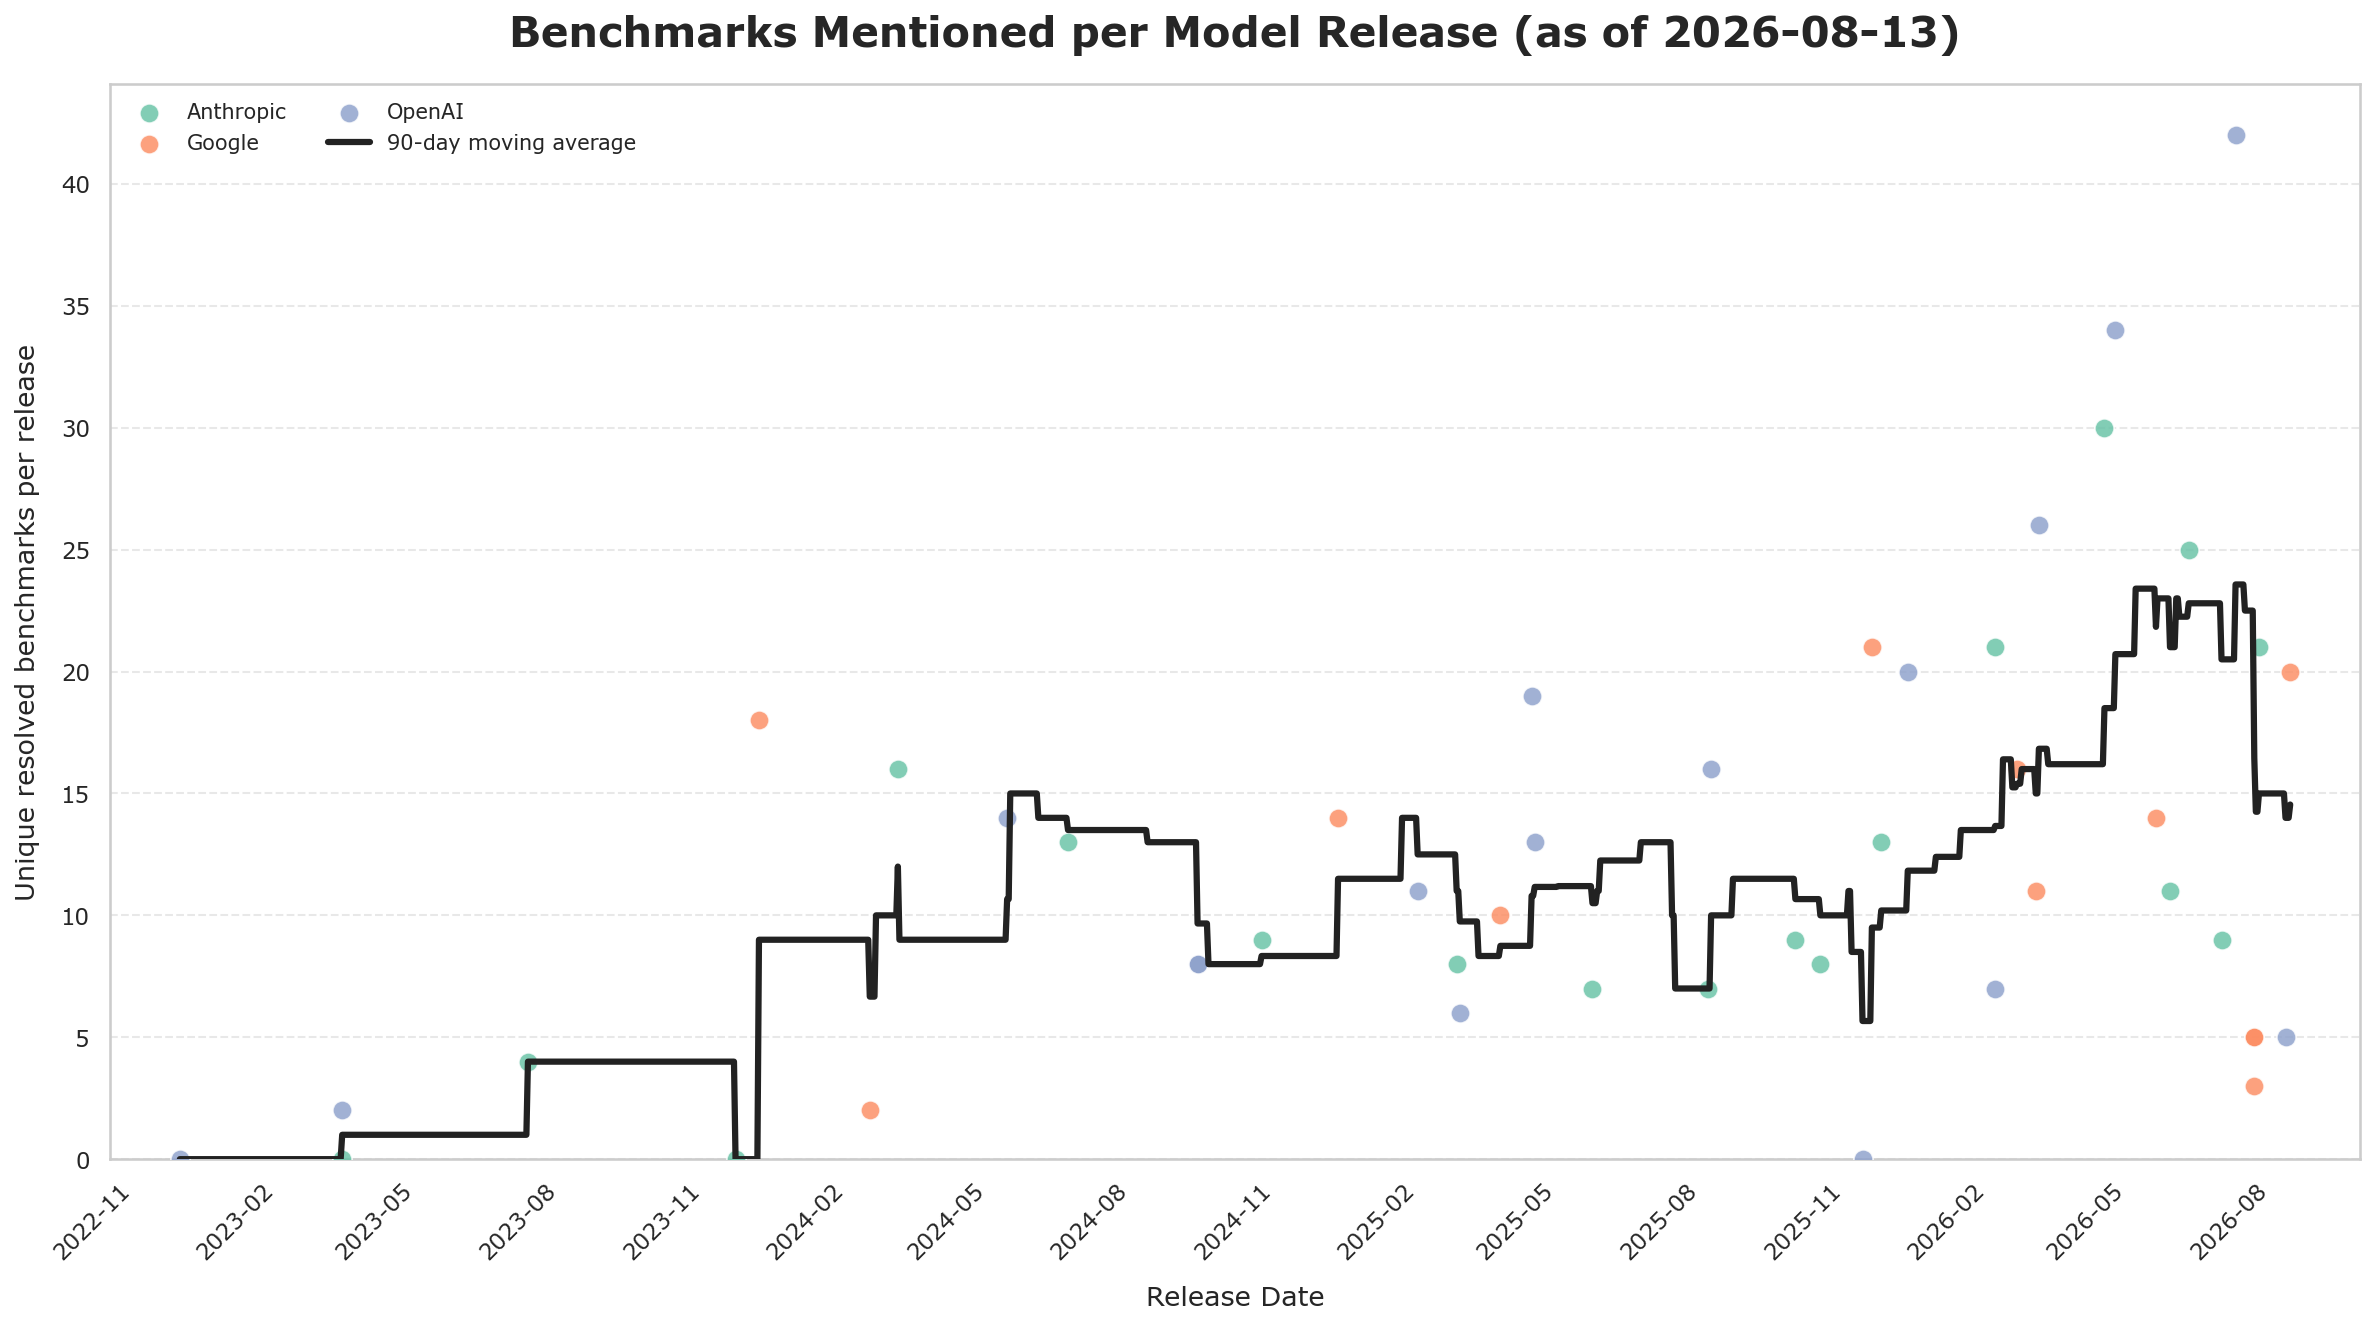
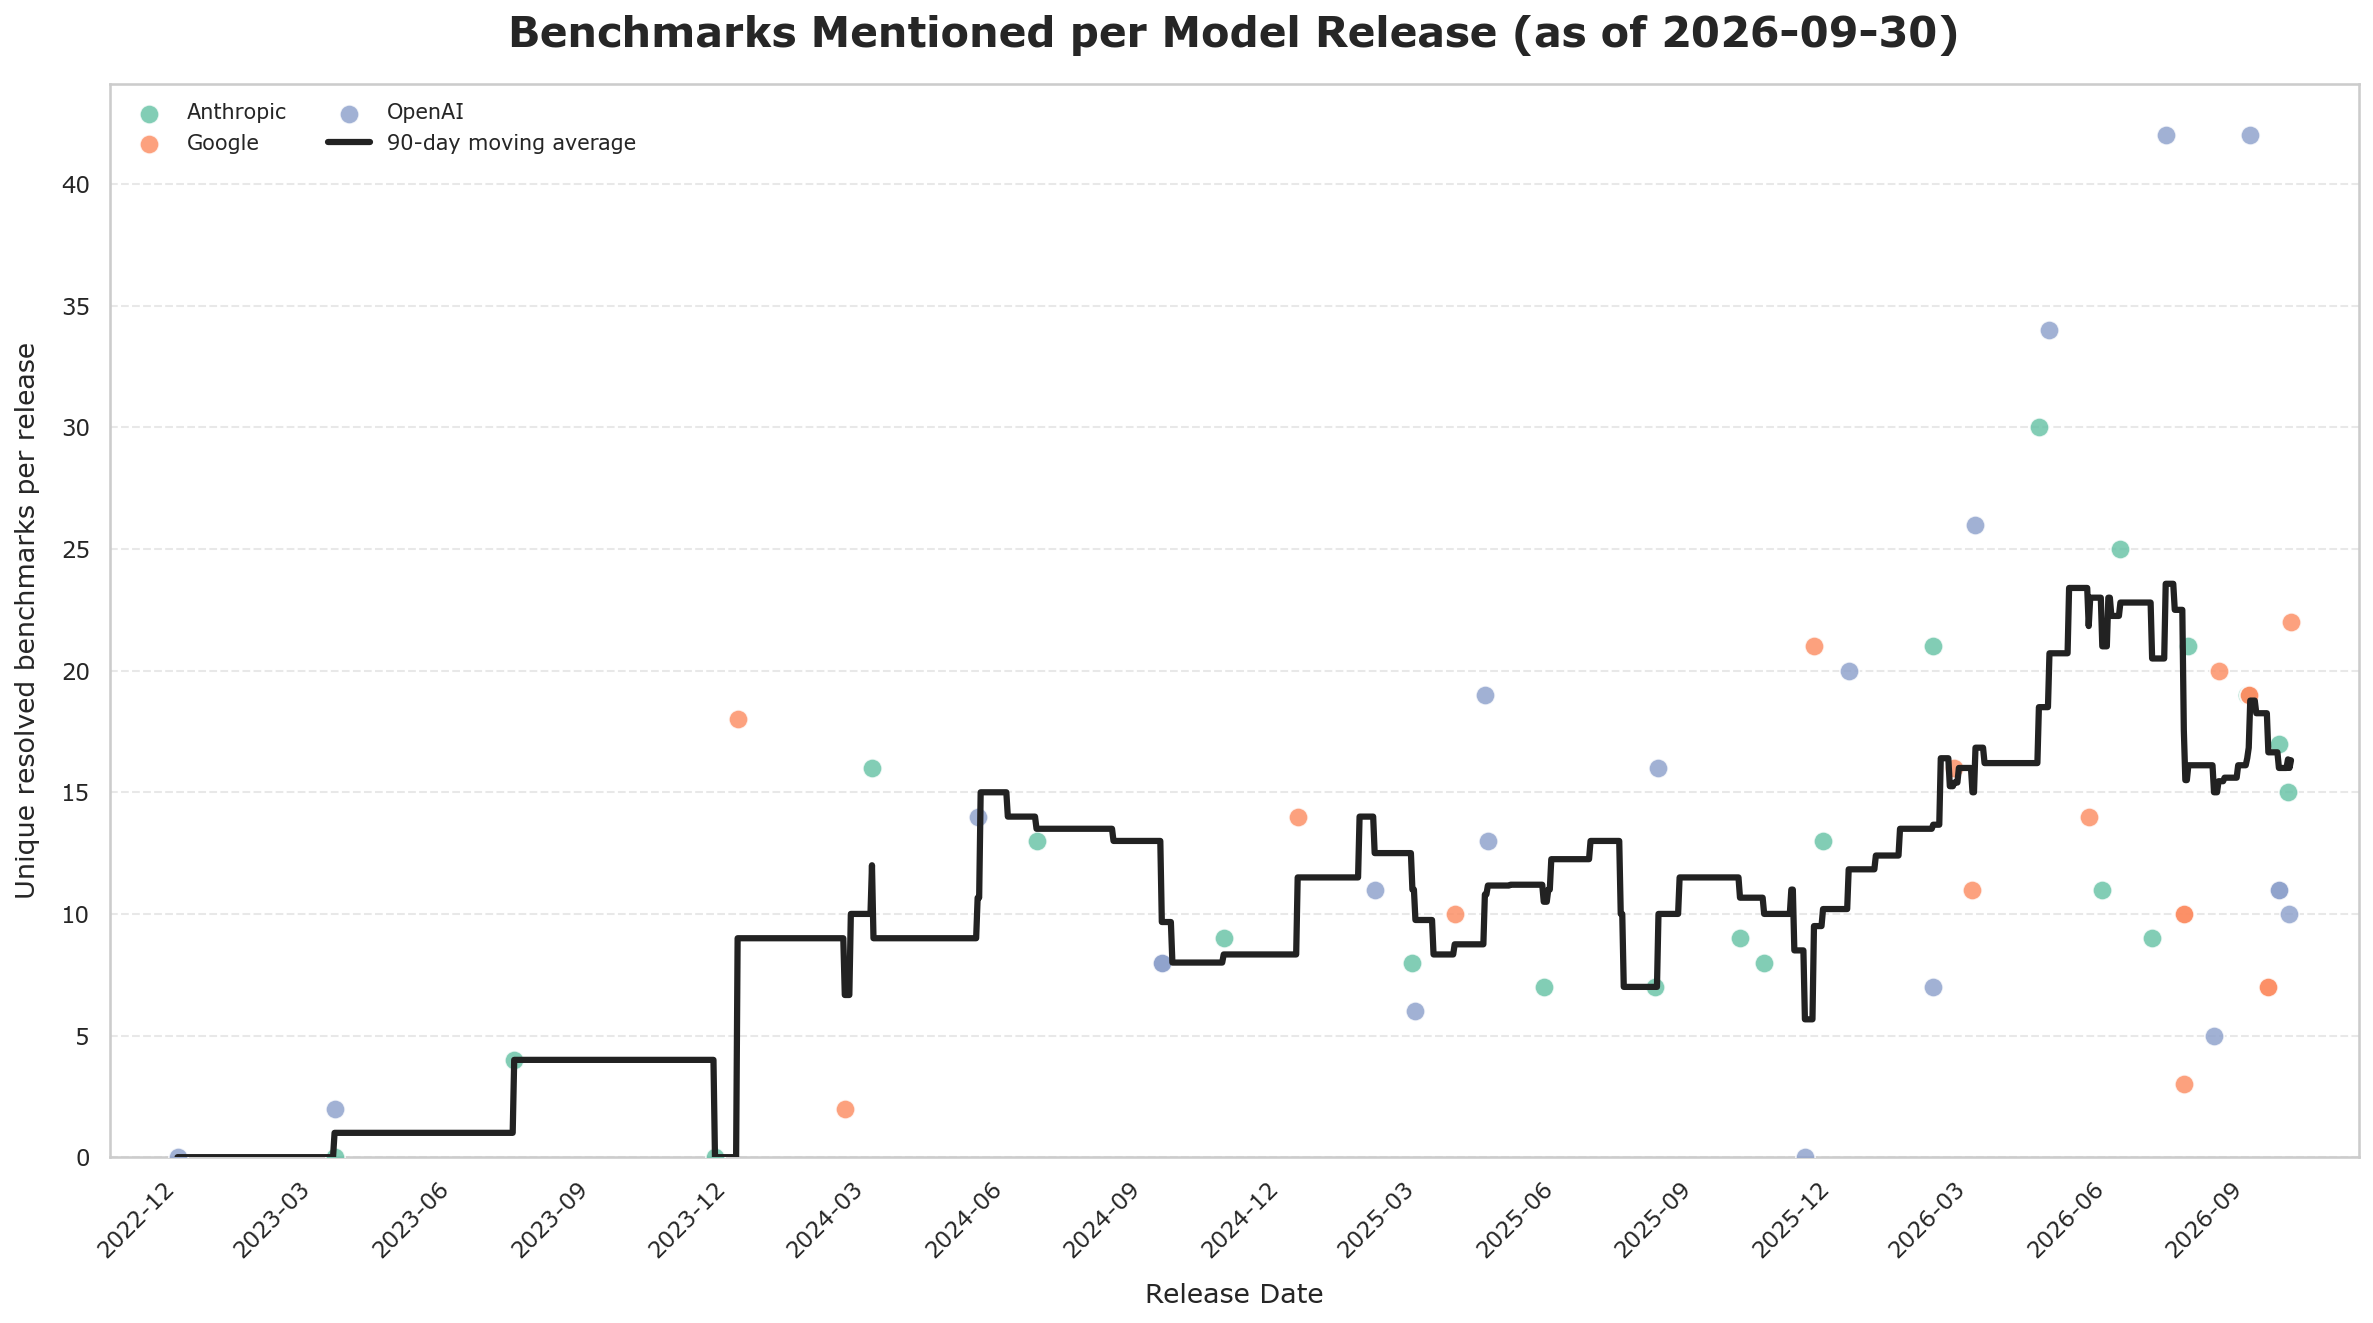
FIX: update benchmarks project page to the 2026-09-30 snapshot
Refresh the figures, tables and charts from the project repo, and add the
new benchmark reporting life cycle finding, in Korean and English.

diff --git a/src/content/projects/evolution-of-benchmarks/en.md b/src/content/projects/evolution-of-benchmarks/en.md
@@ -2,16 +2,16 @@
 title: "The Evolution of Benchmarks in Frontier Models"
 description: "A release-page dataset of the benchmarks that OpenAI, Google, and Anthropic have used to introduce their frontier AI models."
 status: active
-updated: 2026-08-13
+updated: 2026-10-04
 repo: isingmodel/evolution_of_benchmarks_in_frontier_models
 cover:
   src: ./charts/benchmark_evolution.png
   alt: "Timeline of model releases from OpenAI, Google, and Anthropic, each drawn as a pie chart of the task modes of its benchmarks"
 facts:
   - { label: "Providers", value: "OpenAI, Google, Anthropic" }
-  - { label: "Releases tracked", value: "47" }
-  - { label: "Benchmark mentions", value: "582" }
-  - { label: "Catalog entries", value: "207" }
+  - { label: "Releases tracked", value: "59" }
+  - { label: "Benchmark mentions", value: "791" }
+  - { label: "Catalog entries", value: "286" }
   - { label: "License", value: "Apache-2.0" }
 ---
 This project tracks benchmark and evaluation names published on the launch pages for frontier models from OpenAI, Google, and Anthropic. It follows how those benchmark portfolios have changed over time: from academic tests and static question sets toward coding environments, tool use, computer interaction, and other work-like tasks.
@@ -22,11 +22,13 @@ The unit of evidence is a benchmark mention on a public model-release page. A be
 
 | Provider | Releases | First release | Latest release |
 | --- | ---: | --- | --- |
-| OpenAI | 17 | 2022-11-30 | GPT-5.6-Cyber (2026-08-10) |
-| Google | 12 | 2023-12-06 | Gemini 3.7 Flash (2026-08-13) |
-| Anthropic | 18 | 2023-03-14 | Claude 5 Opus (2026-07-24) |
+| OpenAI | 21 | 2022-11-30 | GPT-6.1 Sol (2026-09-29) |
+| Google | 17 | 2023-12-06 | Gemini 4 Argon (2026-09-30) |
+| Anthropic | 21 | 2023-03-14 | Claude 5.5 Sonnet (2026-09-28) |
 
-Every model-release row carries the same total weight. If a launch page lists ten resolved benchmarks, each receives one tenth of that release's weight. This keeps releases with long benchmark tables from dominating the time series.
+The current snapshot covers releases through September 30, 2026. Release discovery and source checks were refreshed through October 4, 2026, and the results are in the [source and identity audit](https://github.com/isingmodel/evolution_of_benchmarks_in_frontier_models/blob/main/docs/data_refresh_2026_10_04.md).
+
+Every release that lists benchmarks carries the same total weight; 55 of the 59 tracked releases do. If a launch page lists ten resolved benchmarks, each receives one tenth of that release's weight. This keeps releases with long benchmark tables from dominating the time series.
 
 The main files are:
 
@@ -40,7 +42,7 @@ The main files are:
 
 ## Release pages are moving from exams toward work simulations
 
-Static question answering still appears frequently, but the mix changed sharply after 2024. The active taxonomy assigns 73.4% of the weighted 2026 YTD portfolio to work-simulation characteristics, up from 12.0% in 2023.
+Static question answering still appears frequently, but the mix changed sharply after 2024. The active taxonomy assigns 69.9% of the weighted 2026 YTD portfolio to work-simulation characteristics, up from 12.0% in 2023.
 
 ![Line chart of the weighted share of static exam-style, work-simulation, and specialized-domain benchmarks by release year, 2023 to 2026](./charts/static_to_work_simulation_trend.png)
 
@@ -49,9 +51,9 @@ Static question answering still appears frequently, but the mix changed sharply 
 | 2023 | 82.4% | 12.0% | 53.7% | 3 |
 | 2024 | 70.7% | 18.0% | 28.0% | 8 |
 | 2025 | 54.4% | 39.1% | 48.7% | 14 |
-| 2026 YTD | 16.1% | 73.4% | 42.3% | 18 |
+| 2026 YTD | 12.2% | 69.9% | 37.1% | 30 |
 
-The 2026 estimate is sensitive to taxonomy review coverage. It is 73.4% across all active labels, 33.8% under a fixed-denominator lower bound, and 58.0% among mentions with complete high-confidence coverage. The full sensitivity tables are in [static_work_sensitivity.csv](https://github.com/isingmodel/evolution_of_benchmarks_in_frontier_models/blob/main/analysis/readme_story/static_work_sensitivity.csv).
+The 2026 estimate is sensitive to taxonomy review coverage. It is 69.9% across all active labels, 20.9% under a fixed-denominator lower bound, and 51.2% among mentions with complete high-confidence coverage. The full sensitivity tables are in [static_work_sensitivity.csv](https://github.com/isingmodel/evolution_of_benchmarks_in_frontier_models/blob/main/analysis/readme_story/static_work_sensitivity.csv).
 
 SWE-bench Verified, OSWorld-Verified, SWE-bench Pro, HumanEval, and the TAU family account for much of the work-simulation signal.
 
@@ -70,6 +72,25 @@ Several recent benchmarks appeared on another provider's release page within day
 
 These dates measure adoption on the release pages covered here.
 
+## Each benchmark has an observed reporting life cycle
+
+Of the 284 benchmarks observed on a release page, 167 appear on one announcement and 117 recur across announcements; 74 appear across multiple providers. The lifecycle analysis counts the 59 model rows as 55 distinct announcements, so a shared launch page cannot create repeat use by itself.
+
+![Timeline of 15 selected benchmarks from 2023 to 2026, marking each announcement that mentions a benchmark by provider, with a grey span from its first to its last observed mention](./charts/benchmark_lifecycle.png)
+
+| Benchmark | First observed | Last observed | Announcements | Providers |
+| --- | --- | --- | ---: | ---: |
+| GSM8K | 2023-07-11 | 2024-06-21 | 4 | 2 |
+| HumanEval | 2023-07-11 | 2024-10-23 | 7 | 3 |
+| SWE-bench Verified | 2024-10-23 | 2026-04-16 | 18 | 3 |
+| Terminal-Bench 3.0 | 2026-08-13 | 2026-08-13 | 1 | 1 |
+| Terminal-Bench 4.0 | 2026-09-01 | 2026-09-30 | 6 | 3 |
+| Terminal-Bench Science 0.1 | 2026-09-01 | 2026-09-30 | 5 | 3 |
+
+First and last appearance bound an observed reporting span. A last mention does not establish retirement, and version-specific patterns do not establish replacement.
+
+The [complete lifecycle report](https://github.com/isingmodel/evolution_of_benchmarks_in_frontier_models/blob/main/analysis/benchmark_lifecycle/report.md) covers all 286 catalog entries, including two with no observed mention by the cutoff. The [per-benchmark measures](https://github.com/isingmodel/evolution_of_benchmarks_in_frontier_models/blob/main/analysis/benchmark_lifecycle/benchmark_lifecycles.csv) and [per-provider tables](https://github.com/isingmodel/evolution_of_benchmarks_in_frontier_models/blob/main/analysis/benchmark_lifecycle/provider_lifecycles.csv) also record how often each lab kept reporting a benchmark in the launches that followed its first use.
+
 ## Gemini made long context part of the launch narrative
 
 Long-context evaluations formed 39.3% of Google's weighted benchmark portfolio in 2024. The comparable shares were 2.4% for OpenAI and 5.8% for Anthropic. Needle In A Haystack was Google's main driver in this period.
@@ -84,13 +105,13 @@ Long-context evaluations formed 39.3% of Google's weighted benchmark portfolio i
 
 ## OpenAI-linked benchmarks have become shared reference points
 
-On Google's release pages, the release-normalized share of OpenAI-authored or OpenAI-affiliated benchmarks rose from 6.1% to 20.2%. The combined Anthropic–Google share rose from 16.9% to 20.4%, while Anthropic stayed close to its earlier level.
+OpenAI-authored or OpenAI-affiliated benchmarks appear across all three labs' release pages. Google's release-normalized share rose from 6.1% to 13.3% between 2023–24 and 2025–26. Anthropic's share fell from 25.0% to 17.7%, and the combined Anthropic–Google share fell from 16.9% to 15.6%.
 
 | Portfolio | 2023–24 raw | 2023–24 normalized | 2025–26 raw | 2025–26 normalized |
 | --- | ---: | ---: | ---: | ---: |
-| Anthropic + Google | 14.5% | 16.9% | 19.6% | 20.4% |
-| Anthropic | 19.0% | 25.0% | 18.8% | 20.6% |
-| Google | 8.8% | 6.1% | 21.0% | 20.2% |
+| Anthropic + Google | 14.5% | 16.9% | 14.6% | 15.6% |
+| Anthropic | 19.0% | 25.0% | 15.8% | 17.7% |
+| Google | 8.8% | 6.1% | 13.2% | 13.3% |
 
 ## More views of the same history
 
@@ -114,7 +135,7 @@ The repository has [more charts](https://github.com/isingmodel/evolution_of_benc
 | Classification | Assign multiple facets across interaction pattern, task mechanism, construct claim, and context |
 | Review | Store confidence, provenance, and review status with each facet assignment |
 
-The charts use a concise headline projection built from the multi-label taxonomy. The facet table currently contains 3,410 rows: 29 accepted, 3,339 awaiting review, and 42 legacy rows. Of these, 1,533 have confidence below 0.70. Review priority is driven by both uncertainty and the number of release-page mentions affected by a benchmark.
+The charts use a concise headline projection built from the multi-label taxonomy. The facet table currently contains 4,042 rows: 29 accepted, 3,953 awaiting review, and 60 legacy rows. Of these, 2,147 have confidence below 0.70. Review priority is driven by both uncertainty and the number of release-page mentions affected by a benchmark.
 
 ## Limitations
 
